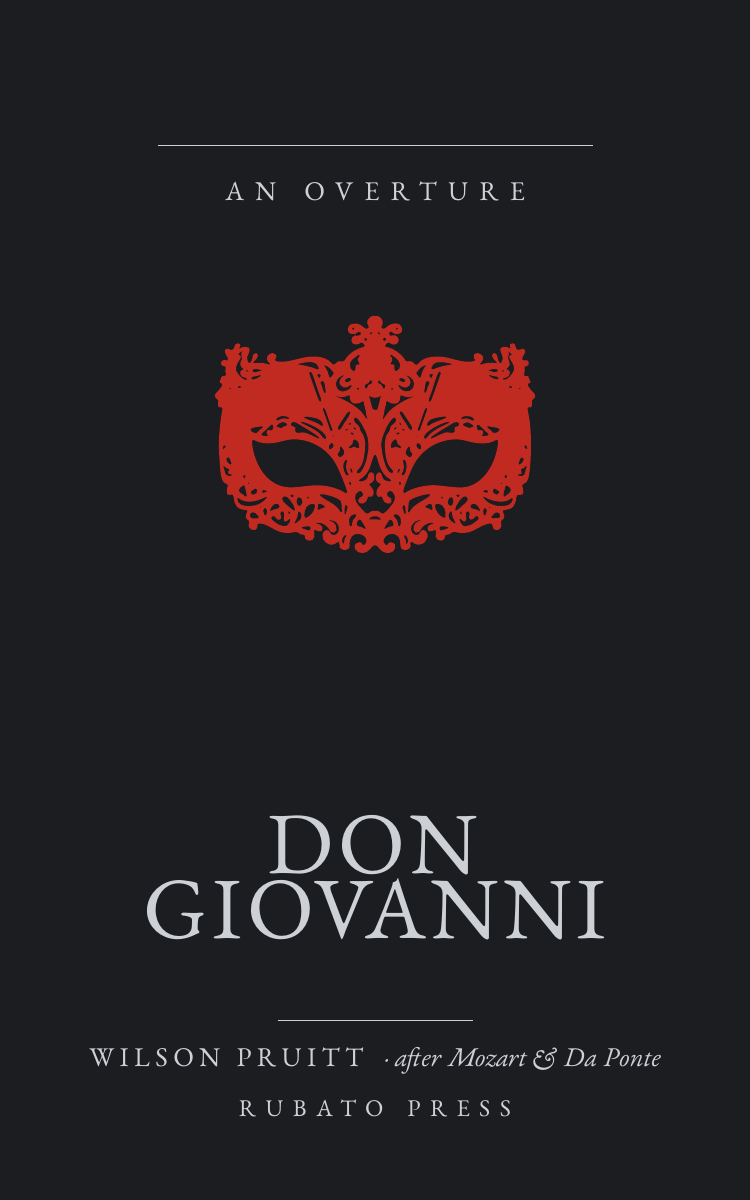
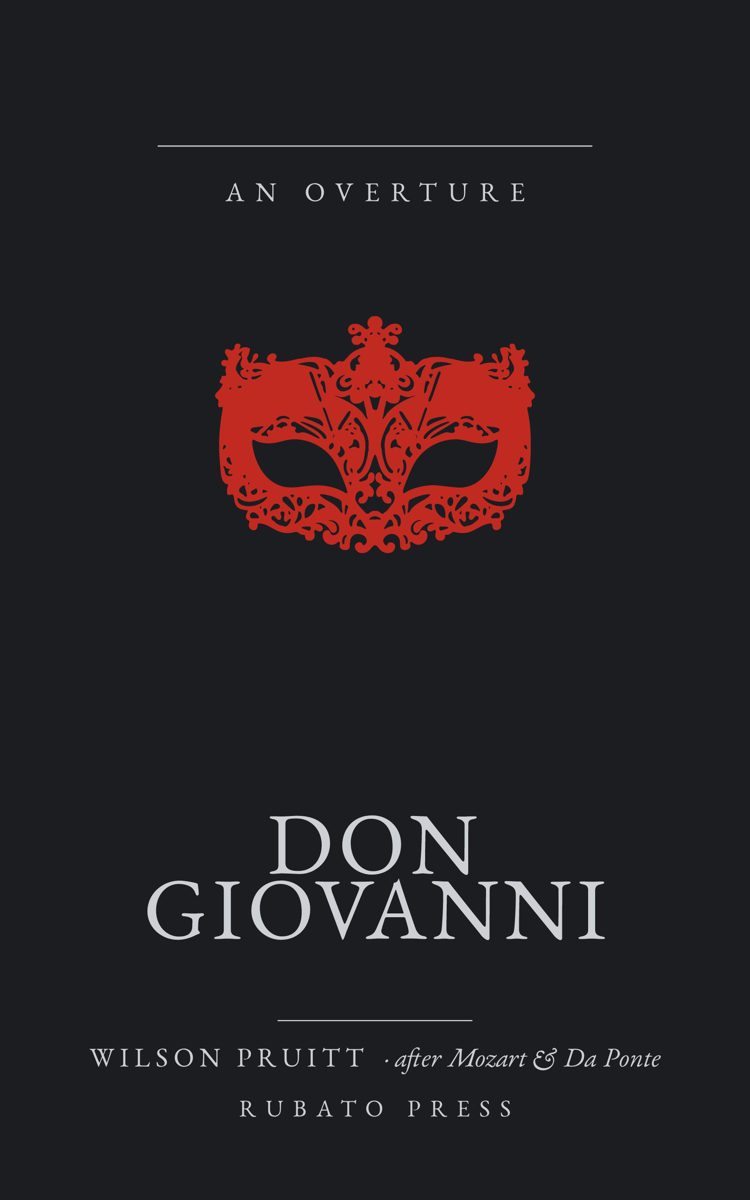
Series grid: show all 9 covers; link 4 live titles to Amazon; mark 5 forthcoming
- Add 6 cover cards (La Bohème, Figaro, Carmen, Tristan, Meistersinger, Das Rheingold) + their web PNGs
- Wire Parsifal/Don Giovanni/Tosca/La Bohème buy + cover links to their Amazon pages
- Forthcoming titles show muted 'Coming soon'; section intro now 'four titles … five more on the way'

diff --git a/index.html b/index.html
@@ -296,6 +296,7 @@
   .book .timing{font-family:var(--mono);font-size:.66rem;letter-spacing:.08em;color:var(--ink-faint);text-transform:uppercase;}
   .book .price-buy{display:flex;align-items:baseline;gap:16px;}
   .book .price{font-family:var(--display);font-size:1.12rem;font-weight:500;}
+  .book .soon{font-family:var(--mono);font-size:.66rem;letter-spacing:.14em;text-transform:uppercase;color:var(--ink-faint);}
   .book .buy{
     font-family:var(--mono);font-size:.66rem;letter-spacing:.16em;text-transform:uppercase;color:var(--gilt);
     position:relative;
@@ -464,14 +465,14 @@
         <span class="movement">Movement I · The Overture Series</span>
         <h2>Operas, told as novels.</h2>
       </div>
-      <p class="tag">Live now — three titles by Wilson Pruitt. Read them in the weeks before you go, or read alongside the recording itself.</p>
+      <p class="tag">Live now — four titles by Wilson Pruitt, with five more on the way. Read them in the weeks before you go, or read alongside the recording itself.</p>
     </div>
 
     <div class="books stagger">
 
       <!-- PARSIFAL -->
       <article class="book">
-        <a class="cover-link" href="#" aria-label="Parsifal, after Richard Wagner">
+        <a class="cover-link" href="https://www.amazon.com/dp/B0H4CTS6D6" target="_blank" rel="noopener" aria-label="Parsifal, after Richard Wagner">
           <img class="cover-img" src="/covers/parsifal.png" width="750" height="1200" loading="lazy"
                alt="Parsifal — An Overture, after Richard Wagner" />
         </a>
@@ -482,14 +483,14 @@
           <div class="b-afterword label">Afterword · “Made Wise Through Pity”</div>
           <div class="b-foot">
             <span class="timing">≈ 4 hr 15 · timed recording</span>
-            <span class="price-buy"><span class="price">$10</span><a class="buy" href="#"><span>Read along ▸</span></a></span>
+            <span class="price-buy"><span class="price">$10</span><a class="buy" href="https://www.amazon.com/dp/B0H4CTS6D6" target="_blank" rel="noopener"><span>Read along ▸</span></a></span>
           </div>
         </div>
       </article>
 
       <!-- DON GIOVANNI -->
       <article class="book">
-        <a class="cover-link" href="#" aria-label="Don Giovanni, after Mozart and Da Ponte">
+        <a class="cover-link" href="https://www.amazon.com/dp/B0H4KHWWGC" target="_blank" rel="noopener" aria-label="Don Giovanni, after Mozart and Da Ponte">
           <img class="cover-img" src="/covers/don-giovanni.png" width="750" height="1200" loading="lazy"
                alt="Don Giovanni — An Overture, after Mozart &amp; Da Ponte" />
         </a>
@@ -500,14 +501,14 @@
           <div class="b-afterword label">Afterword · “The Devil You Cannot Narrate”</div>
           <div class="b-foot">
             <span class="timing">≈ 2 hr 55 · timed recording</span>
-            <span class="price-buy"><span class="price">$10</span><a class="buy" href="#"><span>Read along ▸</span></a></span>
+            <span class="price-buy"><span class="price">$10</span><a class="buy" href="https://www.amazon.com/dp/B0H4KHWWGC" target="_blank" rel="noopener"><span>Read along ▸</span></a></span>
           </div>
         </div>
       </article>
 
       <!-- TOSCA -->
       <article class="book">
-        <a class="cover-link" href="#" aria-label="Tosca, after Giacomo Puccini">
+        <a class="cover-link" href="https://www.amazon.com/dp/B0H4H2YJKQ" target="_blank" rel="noopener" aria-label="Tosca, after Giacomo Puccini">
           <img class="cover-img" src="/covers/tosca.png" width="750" height="1200" loading="lazy"
                alt="Tosca — An Overture, after Giacomo Puccini" />
         </a>
@@ -518,7 +519,115 @@
           <div class="b-afterword label">Afterword · “That Shabby Little Shocker”</div>
           <div class="b-foot">
             <span class="timing">≈ 1 hr 55 · timed recording</span>
-            <span class="price-buy"><span class="price">$10</span><a class="buy" href="#"><span>Read along ▸</span></a></span>
+            <span class="price-buy"><span class="price">$10</span><a class="buy" href="https://www.amazon.com/dp/B0H4H2YJKQ" target="_blank" rel="noopener"><span>Read along ▸</span></a></span>
+          </div>
+        </div>
+      </article>
+
+      <!-- LA BOHÈME -->
+      <article class="book">
+        <a class="cover-link" href="https://www.amazon.com/dp/B0H4T3XNYB" target="_blank" rel="noopener" aria-label="La Bohème, after Giacomo Puccini">
+          <img class="cover-img" src="/covers/la-boheme.png" width="750" height="1200" loading="lazy"
+               alt="La Bohème — An Overture, after Giacomo Puccini" />
+        </a>
+        <div class="meta">
+          <h3 class="b-title">La Bohème</h3>
+          <div class="b-after">An Overture · after Giacomo Puccini</div>
+          <p class="b-hook">A garret, a guttering candle, a cold little hand — and the youth you only know you had once it is over.</p>
+          <div class="b-afterword label">Afterword · “The International Opera”</div>
+          <div class="b-foot">
+            <span class="timing">≈ 1 hr 50 · timed recording</span>
+            <span class="price-buy"><span class="price">$10</span><a class="buy" href="https://www.amazon.com/dp/B0H4T3XNYB" target="_blank" rel="noopener"><span>Read along ▸</span></a></span>
+          </div>
+        </div>
+      </article>
+
+      <!-- LE NOZZE DI FIGARO -->
+      <article class="book">
+        <a class="cover-link" href="#" aria-label="Le nozze di Figaro, after Mozart and Da Ponte">
+          <img class="cover-img" src="/covers/le-nozze-di-figaro.png" width="750" height="1200" loading="lazy"
+               alt="Le nozze di Figaro — An Overture, after Mozart &amp; Da Ponte" />
+        </a>
+        <div class="meta">
+          <h3 class="b-title">Le nozze di Figaro</h3>
+          <div class="b-after">An Overture · after Mozart &amp; Da Ponte</div>
+          <p class="b-hook">A count who would take back the old right to his servants’ brides, and the long mad day that ends with the master on his knees, begging his wife’s pardon.</p>
+          <div class="b-afterword label">Afterword · “The Revolution in the Master’s Knees”</div>
+          <div class="b-foot">
+            <span class="timing">≈ 2 hr 55 · timed recording</span>
+            <span class="price-buy"><span class="soon">Coming soon</span></span>
+          </div>
+        </div>
+      </article>
+
+      <!-- CARMEN -->
+      <article class="book">
+        <a class="cover-link" href="#" aria-label="Carmen, after Georges Bizet">
+          <img class="cover-img" src="/covers/carmen.png" width="750" height="1200" loading="lazy"
+               alt="Carmen — An Overture, after Georges Bizet" />
+        </a>
+        <div class="meta">
+          <h3 class="b-title">Carmen</h3>
+          <div class="b-after">An Overture · after Georges Bizet</div>
+          <p class="b-hook">A soldier who has done everything right, a woman who lives by no law but her own freedom, and the cards that will not lie.</p>
+          <div class="b-afterword label">Afterword · “Free She Was Born, Free She Will Die”</div>
+          <div class="b-foot">
+            <span class="timing">≈ 2 hr 40 · timed recording</span>
+            <span class="price-buy"><span class="soon">Coming soon</span></span>
+          </div>
+        </div>
+      </article>
+
+      <!-- TRISTAN UND ISOLDE -->
+      <article class="book">
+        <a class="cover-link" href="#" aria-label="Tristan und Isolde, after Richard Wagner">
+          <img class="cover-img" src="/covers/tristan-und-isolde.png" width="750" height="1200" loading="lazy"
+               alt="Tristan und Isolde — An Overture, after Richard Wagner" />
+        </a>
+        <div class="meta">
+          <h3 class="b-title">Tristan und Isolde</h3>
+          <div class="b-after">An Overture · after Richard Wagner</div>
+          <p class="b-hook">A cup poured for death that pours love instead, a torch put out by hand, and two souls who want nothing the daylit world can give.</p>
+          <div class="b-afterword label">Afterword · “In Love with the Obstacle”</div>
+          <div class="b-foot">
+            <span class="timing">≈ 3 hr 55 · timed recording</span>
+            <span class="price-buy"><span class="soon">Coming soon</span></span>
+          </div>
+        </div>
+      </article>
+
+      <!-- DIE MEISTERSINGER -->
+      <article class="book">
+        <a class="cover-link" href="#" aria-label="Die Meistersinger von Nürnberg, after Richard Wagner">
+          <img class="cover-img" src="/covers/die-meistersinger.png" width="750" height="1200" loading="lazy"
+               alt="Die Meistersinger von Nürnberg — An Overture, after Richard Wagner" />
+        </a>
+        <div class="meta">
+          <h3 class="b-title">Die Meistersinger von Nürnberg</h3>
+          <div class="b-after">An Overture · after Richard Wagner</div>
+          <p class="b-hook">A whole Nuremberg Midsummer, a guild of singing tradesmen, and the cobbler-poet who could keep the girl and gives her away instead.</p>
+          <div class="b-afterword label">Afterword · “Holy German Art?”</div>
+          <div class="b-foot">
+            <span class="timing">≈ 4 hr 29 · timed recording</span>
+            <span class="price-buy"><span class="soon">Coming soon</span></span>
+          </div>
+        </div>
+      </article>
+
+      <!-- DAS RHEINGOLD -->
+      <article class="book">
+        <a class="cover-link" href="#" aria-label="Das Rheingold, after Richard Wagner">
+          <img class="cover-img" src="/covers/das-rheingold.png" width="750" height="1200" loading="lazy"
+               alt="Das Rheingold — An Overture, after Richard Wagner" />
+        </a>
+        <div class="meta">
+          <h3 class="b-title">Das Rheingold</h3>
+          <div class="b-after">An Overture · after Richard Wagner</div>
+          <p class="b-hook">Three careless river-maidens, a dwarf who forswears love to forge a ring of limitless power, and the gods who rob the robber — the first wrong of the world.</p>
+          <div class="b-afterword label">Afterword · “The World’s First Wrong”</div>
+          <div class="b-foot">
+            <span class="timing">≈ 2 hr 25 · timed recording</span>
+            <span class="price-buy"><span class="soon">Coming soon</span></span>
           </div>
         </div>
       </article>
